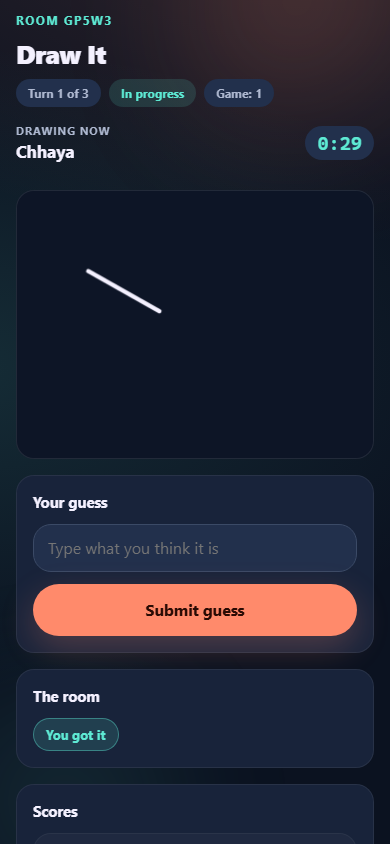
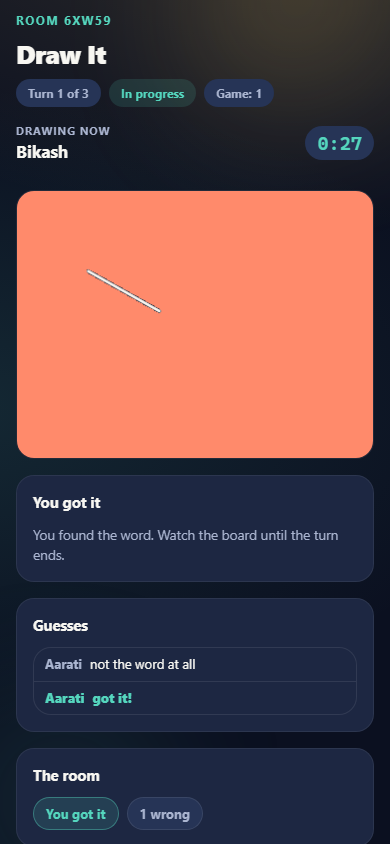
Refresh the preview pictures
They are the shots the browser suite already takes, so they were out of
date: the Draw It screen still showed the old layout, and the words on
the sound button were still the old ones.

Every game now has a picture, the readme shows four of them, and the
folder explains where they come from.

diff --git a/preview/README.md b/preview/README.md
@@ -7,10 +7,14 @@ the readme can show what it actually looks like, rather than a mock up.
 | --- | --- |
 | `player-one-of-us.png` | One of Us, on a player's phone. The crew's secret word, and the leave button safely at the bottom. |
 | `player-results.png` | The result of a round. |
-| `player-draw-it.png` | Draw It, on the drawer's phone: the board, the countdown, and the word only they can see. |
-| `player-draw-it-guess.png` | Draw It, on a guessing phone: the same drawing, and a box to type the answer. |
+| `player-draw-it.png` | Draw It, on the drawer's phone: the board, the tool kit, and the word pinned under the tools where only they can see it. |
+| `player-draw-it-guess.png` | Draw It, on a guessing phone: the same drawing, the box to type in, and the list of guesses the room has made. |
 | `player-who-is-it.png` | Who Is It? |
+| `player-who-am-i.png` | Who Am I? |
+| `player-where-am-i.png` | Where Am I? |
+| `player-act-it-out.png` | Act It Out. |
 | `player-truth-or-dare.png` | Truth or Dare. |
+| `player-who-wrote-that.png` | Who Wrote That?! |
 | `host-console.png` | The host console, in the middle of a game. |
 | `api-docs.png` | The API documentation page. |
 
@@ -23,4 +27,4 @@ npm run smoke:ui-all
 ```
 
 The images land in `.shots/`, which is not committed. Copy the ones worth
-showing into this folder.
+showing into this folder. They are all 390 by 844, the size of a phone.

diff --git a/.agents/TODO.md b/.agents/TODO.md
@@ -29,7 +29,7 @@ The fix is written but is not finished, not verified, or not deployed.
 | **The turn history must stay visible in Who Am I? and Where Am I?** | The redaction that hid it is gone. It still needs a play-through that checks the history mid-round. |
 | **The seat token must stay out of IndexedDB** | The token lives in `localStorage` now and the remembered room record expires after a week. It needs the old IndexedDB entries cleared on the upgrade path, and a check that the token really is gone from IndexedDB. |
 | **The whole session needs a deploy** | Everything above is written and the suites pass. None of it is live until the backend branch is published and the front end is rebuilt. |
-| **The preview images are out of date** | `preview/` holds hand-made screenshots of the player screens and the host console. There is no script for them, so they have to be taken by hand. The documentation page was refreshed; the player screens still show the older Draw It. |
+| **The preview images need a script** | `preview/` is refreshed by hand from the shots the browser suite leaves in `.shots/`. A small script would copy the right ones across, so the pictures never fall behind the code. |
 
 ---
 

diff --git a/README.md b/README.md
@@ -23,6 +23,14 @@ saved to `server/data/content.json`.
 | --- | --- |
 | ![The host console](preview/host-console.png) | ![The API documentation](preview/api-docs.png) |
 
+| Who Am I? | Act It Out |
+| --- | --- |
+| ![Who Am I? on a phone](preview/player-who-am-i.png) | ![Act It Out on a phone](preview/player-act-it-out.png) |
+
+| Who Wrote That?! | Truth or Dare |
+| --- | --- |
+| ![Who Wrote That?! on a phone](preview/player-who-wrote-that.png) | ![Truth or Dare on a phone](preview/player-truth-or-dare.png) |
+
 More in [`preview/`](preview/).
 
 ## Games in v1
